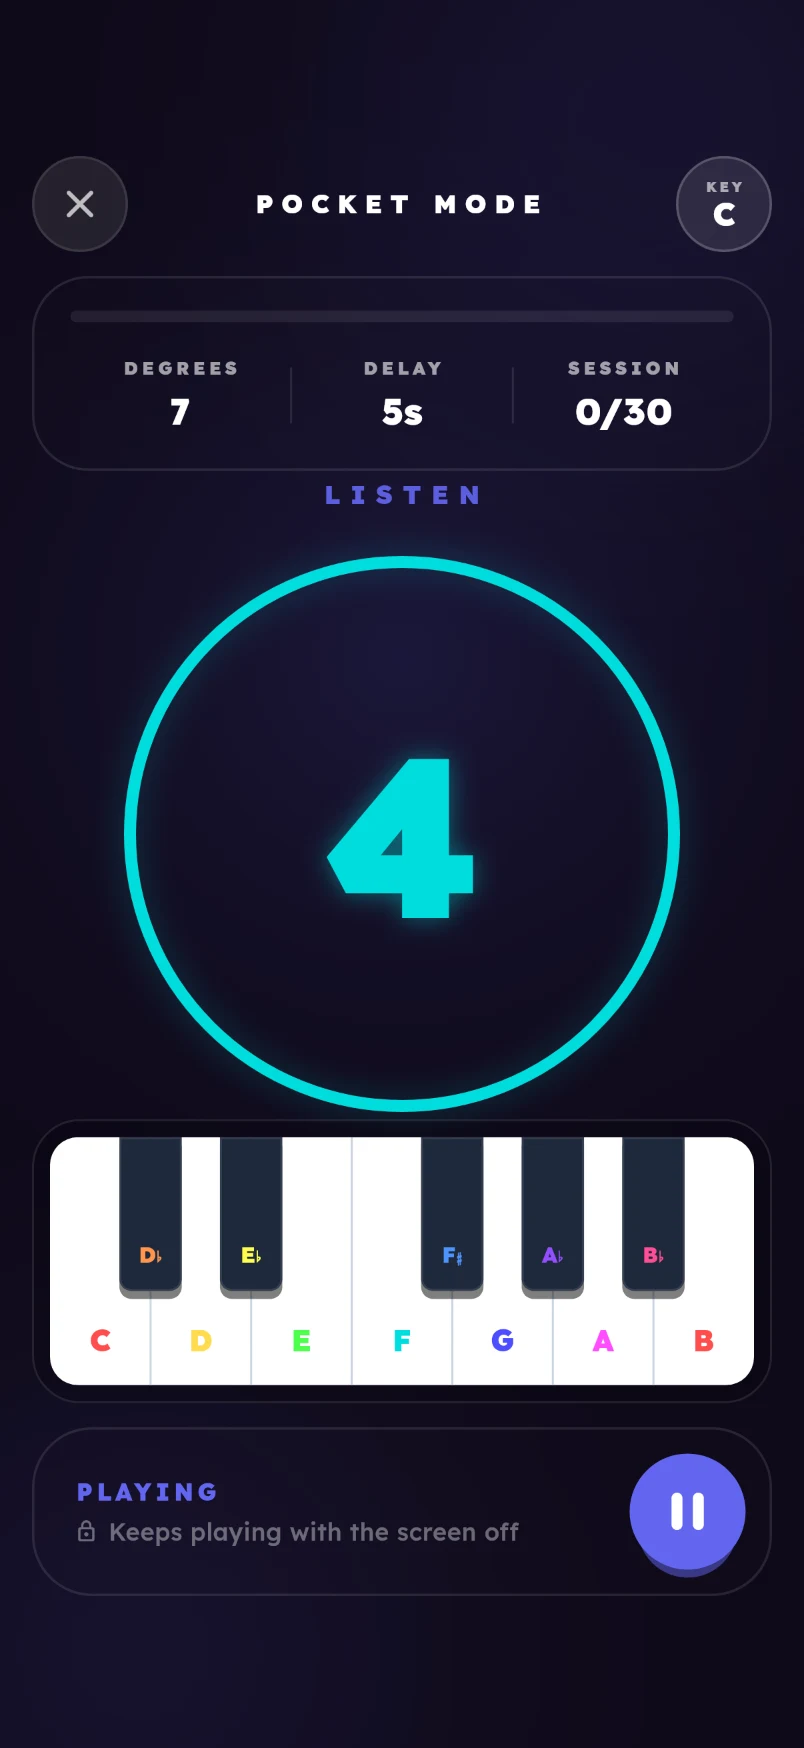
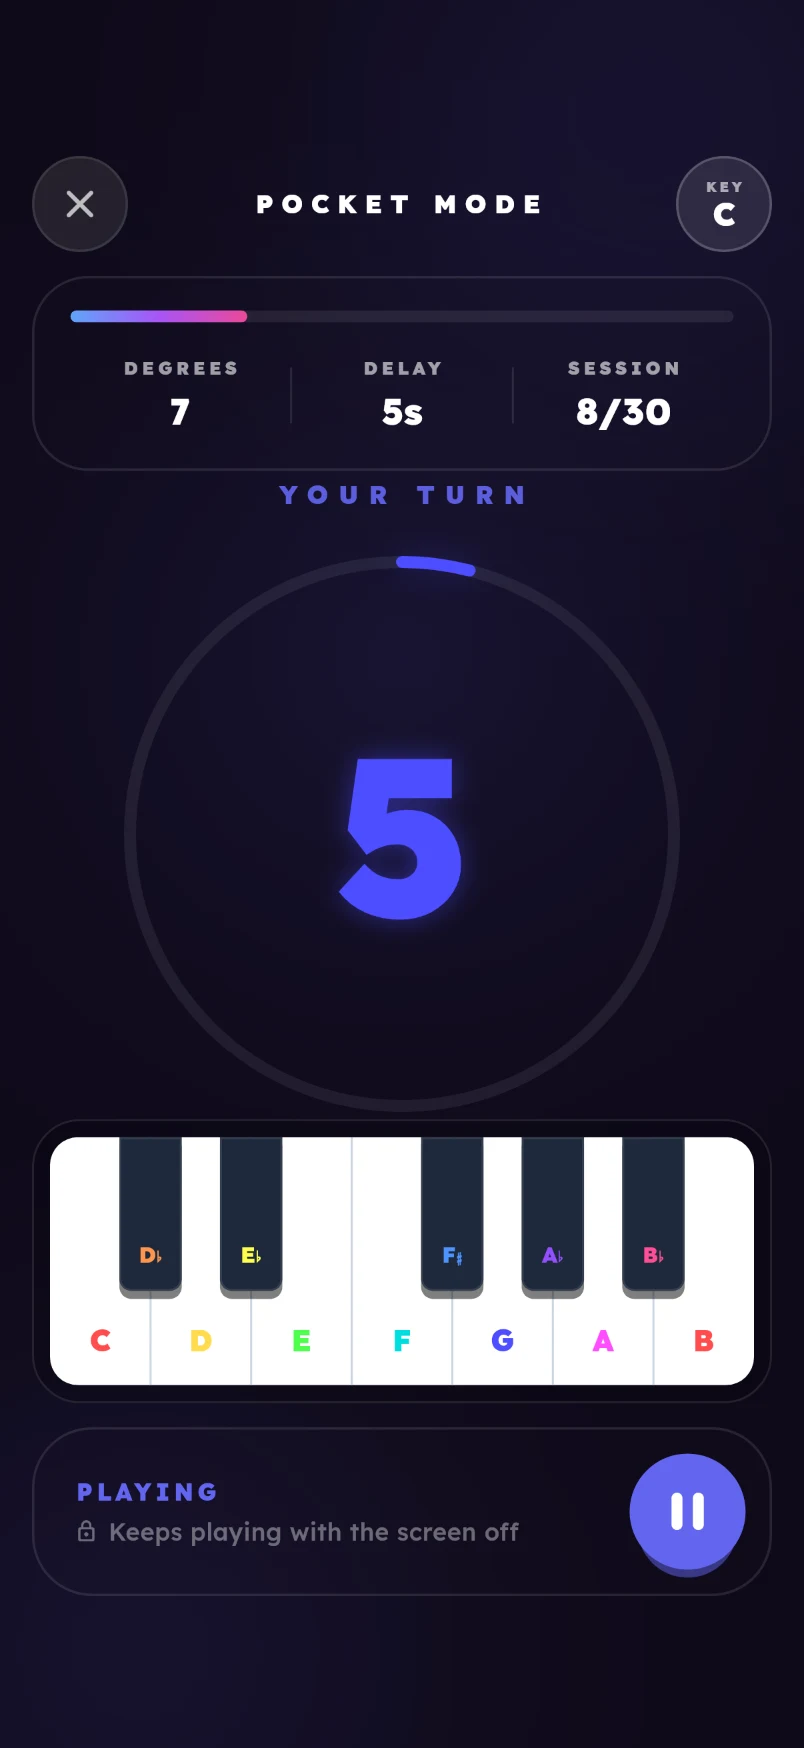
Refresh the phone screens: roomier question, Pocket Mode mid-session
Claude-Session: https://claude.ai/code/session_01WxjDdAHP8mv3wAafRFViM9

diff --git a/src/components/WhyImprovyPage.tsx b/src/components/WhyImprovyPage.tsx
@@ -405,7 +405,7 @@ export function WhyImprovyPage({ onBack }: WhyImprovyPageProps) {
                   streak="7 Days"
                   timer="0:14"
                   screenshot={methodDiatonicImg}
-                  screenshotAlt="Improvy diatonic training in the key of C: degree 3, the seven note buttons, 22 of 30 correct at 96%"
+                  screenshotAlt="Improvy diatonic training in the key of C: a degree to place, the seven note buttons, a session at 96%"
                 />
               </div>
             </div>
@@ -442,7 +442,7 @@ export function WhyImprovyPage({ onBack }: WhyImprovyPageProps) {
                   streak="12 Days"
                   timer="0:08"
                   screenshot={methodChromaticImg}
-                  screenshotAlt="Improvy chromatic training in the key of C: degree 5 with the twelve-note answer grid, including the enharmonic pairs"
+                  screenshotAlt="Improvy chromatic training in the key of C with the twelve-note answer grid, including the enharmonic pairs"
                 />
               </div>
             </div>
@@ -479,7 +479,7 @@ export function WhyImprovyPage({ onBack }: WhyImprovyPageProps) {
                   streak="21 Days"
                   timer="0:03"
                   screenshot={methodN2NImg}
-                  screenshotAlt="Improvy Note-to-Number training in the key of D: the note G, answered with its scale degree"
+                  screenshotAlt="Improvy Note-to-Number training in the key of D: a note, answered with its scale degree"
                 />
               </div>
             </div>
@@ -516,7 +516,7 @@ export function WhyImprovyPage({ onBack }: WhyImprovyPageProps) {
                   streak="Continuous"
                   timer="FREEPLAY"
                   screenshot={methodPianoImg}
-                  screenshotAlt="Improvy on the piano keyboard in the key of G: degree 1, answered on the keys"
+                  screenshotAlt="Improvy on the piano keyboard in the key of G: the degree answered on the keys"
                 />
               </div>
             </div>
@@ -586,7 +586,7 @@ export function WhyImprovyPage({ onBack }: WhyImprovyPageProps) {
                   streak="Continuous"
                   timer="AUTO"
                   screenshot={methodPocketImg}
-                  screenshotAlt="Improvy Pocket Mode in play: the hands-free audio drill calling degree 4 in the key of C"
+                  screenshotAlt="Improvy Pocket Mode in play: the hands-free audio drill, eight questions in, waiting for your answer"
                 />
               </div>
             </div>
